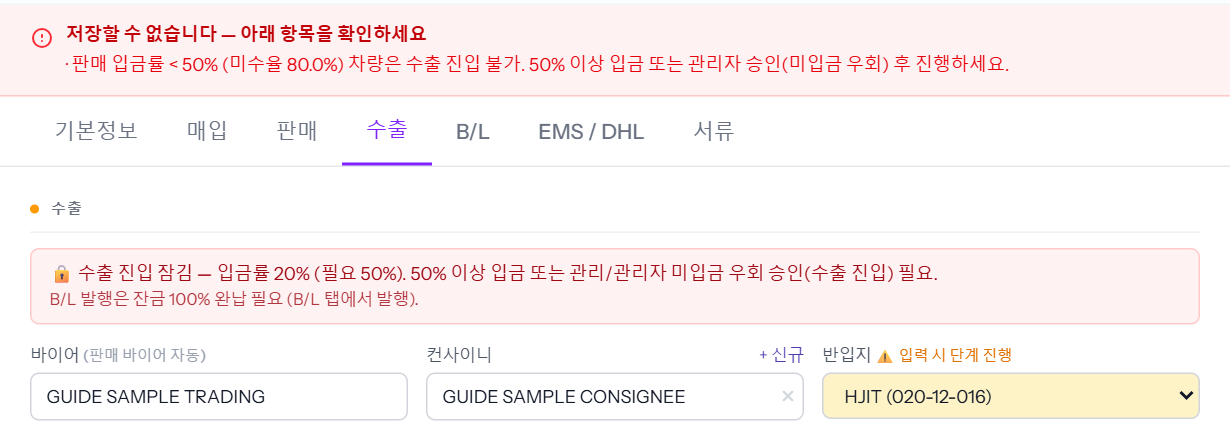
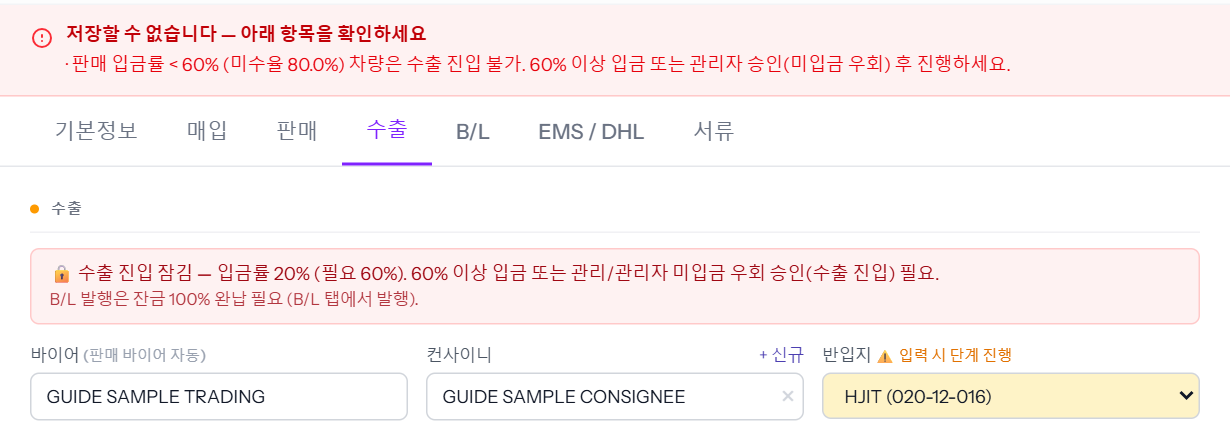
feat(guides): 씬 본문의 촬영 출처 줄 제거(12장) · 입금률 게이트 60% 다시 찍음 · 바이어 정산현황 수수료 단계
- jin «출처 줄은 없는 게 낫다 — 굳이 보일 필요 없다»: 「○○ 로컬 화면에서 ○○ 계정으로 … 찍었습니다」 문장을 12장 전부에서 삭제
  (촬영 출처는 커밋 메시지에만). 「로컬」·「찍었습니다」 언급 3곳도 정리.
- 입금률 게이트: 로컬 50% 로 찍혀 운영과 달랐다 → 로컬 기준 60% 로 다시 촬영. 회사별 기준 문장(11-14 운영 실측
  heymanerp·ssancarerp 60% · karabaerp 50%, B/L 100%).
- 바이어 정산현황 ④ 「수수료로 털기」(USD 25 중계은행 수수료, 남은 현금 1,000 → 975) 추가.

Changed region(s): [[0.1545, 0.1209, 0.8341, 0.1814], [0.278, 0.6047, 0.7724, 0.6651]]

diff --git a/resources/guides/buyer-account/index.html b/resources/guides/buyer-account/index.html
@@ -1,7 +1,6 @@
 <p style="margin:0 0 14px;color:#4b5563;line-height:1.65">
     바이어가 보낸 돈(현금)을 먼저 바이어 앞으로 적어 두고, 차량별 판매 잔금을 확정할 때마다 그 현금에서 빠져나가게 하는 방식입니다(바이어 현금 원장). 「바이어 정산현황」에서 그 현금이 어느 차에 얼마 쓰였고, 아직 받을 돈이 얼마 남았는지 한 화면에 봅니다. 재무가 합니다.
     <br><strong>회사마다 다릅니다</strong> — 2026-11-14 운영 실측: <strong>heymanerp · karabaerp 는 사용</strong>, <strong>ssancarerp 는 미사용</strong>. 쓰지 않는 회사에는 바이어 「현금」 탭과 「바이어 정산현황」 메뉴가 아예 없고, 판매 잔금은 현금 기재 없이 바로 확정됩니다.
-    <br>2026-11-14 로컬 화면(현금 원장 사용)에서 「재무」 계정으로 예시 바이어 <strong>GUIDE SAMPLE TRADING</strong> · 예시 차량 <strong>00가1131</strong>을 실제로 저장하며 찍었습니다. 금액은 가이드용 예시입니다.
 </p>
 
 <h2 class="gd-sec">① 바이어가 보낸 돈을 적습니다 — 바이어 「현금」 탭</h2>
@@ -38,12 +37,23 @@
     <img src="06.png" alt="묶음별 남은 금액(컨테이너번호) — 미지정 3대 21,300 USD / 미수 차량 — 11가1001 10,800, 00가1141 8,000, 00가1131 2,500">
 </div>
 
+<h2 class="gd-sec">④ 송금 수수료로 덜 들어온 돈 — 「수수료로 털기」</h2>
+
+<div class="gd-step">
+    <div class="gd-n">4단계</div>
+    <h3>바이어 「현금」 탭 → [＋ 수수료] → 수수료일 · 통화 · 수수료(외화) · 사유 → [수수료 털기]</h3>
+    <p>중계은행 수수료처럼 바이어가 보낸 금액보다 통장에 덜 들어왔는데 어느 차에도 붙일 수 없는 수수료는 여기서 텁니다. 남은 현금에서 오래된 입금부터 빠지고, 「지금 털 수 있는 최대」(남은 현금)를 넘으면 안 됩니다.</p>
+    <img src="07.png" alt="수수료로 털기 — 수수료일 2026-11-14, USD, 수수료 25, 사유 중계은행 수수료, 지금 털 수 있는 최대 1,000.00 USD, 수수료 털기 버튼">
+    <p>「수수료를 처리했습니다.」가 뜨고, 그 입금의 남은 금액이 줄며(1,000 → 975) 「쓴 내역」에 「원장 수수료 25.00」이, 아래 「수수료 내역」에 그 줄이 남습니다.</p>
+    <img src="08.png" alt="입금 목록 — 2026-11-14 3,000 USD 남은 975.00, 쓴 내역 00가1131 2,000 · 원장 수수료 25.00 / 수수료 내역 — 2026-11-14 -25.00 USD 중계은행 수수료">
+    <p style="color:#6b7280">※ 수수료가 특정 차 한 대의 송금에 붙은 것이면 여기 말고 그 차 판매 탭의 「송금 수수료」 칸에 적습니다 — 그러면 이 현금도 저절로 줄어듭니다. 두 곳에 다 적으면 두 번 빠집니다.</p>
+</div>
+
 <div class="gd-check">
     <h3>알아 둘 것</h3>
     <ul>
         <li>이 화면의 「바이어 정산현황」은 바이어 돈의 흐름입니다. 담당자에게 주는 「정산」(정산 처리 · 월정산)과는 다른 것입니다.</li>
         <li>현금 기재 · 삭제는 재무 확정 권한(재무 · 관리 이상)이 합니다. 이미 차에 쓴 입금을 지우면 그 잔금을 다른 남은 현금으로 다시 덮고, 남은 현금이 모자라면 삭제가 막힙니다.</li>
-        <li>바이어가 보낸 돈에서 은행 수수료가 빠졌으면 「현금」 탭의 [+ 수수료]로 적습니다. 차량 한 대에 붙은 수수료는 그 차 판매 탭의 「송금 수수료」 칸에 적습니다.</li>
         <li>남은 현금을 당장 쓸 차가 없으면 「남은 현금 → 적립금」에서 적립금으로 옮길 수 있습니다 — 씬 「적립금 적립과 사용」.</li>
         <li>사용 내역 표는 보여주기만 합니다. 잘못 쓰인 잔금은 채권관리(또는 판매 탭)에서 지우면 현금으로 돌아옵니다.</li>
     </ul>

diff --git a/resources/guides/unpaid-gate-override/index.html b/resources/guides/unpaid-gate-override/index.html
@@ -1,6 +1,6 @@
 <p style="margin:0 0 14px;color:#4b5563;line-height:1.65">
     판매 대금을 충분히 받지 못한 차는 수출 탭의 반입지·수출신고서를 저장할 수 없습니다(입금률 게이트). 그래도 먼저 진행해야 하면 <strong>관리 이상이 「미입금 우회 승인」을 사유와 함께 남기고</strong>, 그 뒤에 수출통관이 다시 저장합니다.
-    <br>2026-11-14 로컬 화면에서 「수출통관」·「관리」 계정으로 예시 차량 <strong>00가1141</strong>(USD 판매 10,000 · 2,000 받음 · 입금률 20%)을 실제로 저장하며 찍었습니다. 로컬의 진입 기준은 50% — 운영은 회사·바이어마다 기준이 다를 수 있습니다.
+    <br><strong>필요한 입금률은 회사마다 다릅니다</strong> — 2026-11-14 운영 실측: heymanerp · ssancarerp 60% · karabaerp 50% (B/L 은 세 곳 모두 100%). 바이어별로 따로 정해 둔 기준이 있으면 그것을 따릅니다. 그림은 60% 회사 화면입니다.
 </p>
 
 <h2 class="gd-sec">① 막힌 화면 — 수출통관</h2>
@@ -8,8 +8,8 @@
 <div class="gd-step">
     <div class="gd-n">1단계</div>
     <h3>수출 탭 위에 빨간 「수출 진입 잠김」이 보입니다</h3>
-    <p>「입금률 20% (필요 50%)」처럼 지금 입금률과 필요한 입금률이 나옵니다. 이 상태에서 반입지를 고르고 [수정 저장]을 누르면 저장되지 않고 이유가 뜹니다.</p>
-    <img src="01.png" alt="저장할 수 없습니다 — 판매 입금률 50% 미만(미수율 80.0%) 차량은 수출 진입 불가. 수출 탭 위 빨간 칸 — 수출 진입 잠김, 입금률 20% (필요 50%). 반입지 HJIT 선택됨">
+    <p>「입금률 20% (필요 60%)」처럼 지금 입금률과 필요한 입금률이 나옵니다. 이 상태에서 반입지를 고르고 [수정 저장]을 누르면 저장되지 않고 이유가 뜹니다.</p>
+    <img src="01.png" alt="저장할 수 없습니다 — 판매 입금률 60% 미만(미수율 80.0%) 차량은 수출 진입 불가. 수출 탭 위 빨간 칸 — 수출 진입 잠김, 입금률 20% (필요 60%). 반입지 HJIT 선택됨">
     <p>먼저 바이어에게 대금을 더 받는 것이 원칙입니다 — 씬 「채권관리」. 받기 전에 꼭 반입해야 하면 관리에게 우회 승인을 요청합니다.</p>
 </div>
 
@@ -23,7 +23,7 @@
         <li><strong>단계</strong> — 「수출 진입 (입금 N%)」: 반입지·수출신고서·선적·통관을 열어 줍니다. 「B/L 발행 (입금 100%)」은 B/L 문서를 열어 주는 별도 승인입니다.</li>
         <li><strong>사유</strong> — 20자 이상. 언제 받기로 했는지·누가 확인했는지를 적습니다.</li>
     </ul>
-    <img src="02.png" alt="미입금 우회 승인 — 미입금 잔존 11,200,000원, 단계 수출 진입(입금 50%), 사유 바이어 잔금 11/20 송금 예정 확인(메일). 선박 일정상 반입 먼저 진행.">
+    <img src="02.png" alt="미입금 우회 승인 — 미입금 잔존 11,200,000원, 단계 수출 진입(입금 60%), 사유 바이어 잔금 11/20 송금 예정 확인(메일). 선박 일정상 반입 먼저 진행.">
     <p>[승인 기록]을 누르면 「미입금 우회 승인 완료 — 해당 단계 진입 가능」이 뜨고 칸 머리에 「승인 1」, 아래에 「기존 승인 1건: 수출 진입」이 붙습니다.</p>
     <img src="03.png" alt="승인 1 — 미입금 잔존 11,200,000원 · 기존 승인 1건: 수출 진입">
 </div>

diff --git a/resources/guides/deregistration-notice/index.html b/resources/guides/deregistration-notice/index.html
@@ -1,6 +1,5 @@
 <p style="margin:0 0 14px;color:#4b5563;line-height:1.65">
     매입한 차를 말소하고, 말소등록증을 올린 뒤 차를 판 국내 딜러에게 카카오 알림톡으로 말소등록증 링크를 보내는 단계입니다. 매입 탭 아래쪽에서 합니다. 세금계산서 발행 요청도 같은 칸의 번호로 보냅니다.
-    <br>2026-11-14 로컬 화면에서 「수출통관」 계정으로 예시 차량 <strong>00가1131</strong>을 실제로 저장하며 찍었습니다. 말소증 파일·등록번호·딜러 번호는 가이드용 가짜 값이고, 알림톡 [발송] 버튼은 누르지 않았습니다(실제로 나가는 버튼입니다).
 </p>
 
 <h2 class="gd-sec">① 말소 기록과 말소증 올리기</h2>
@@ -45,7 +44,7 @@
 <div class="gd-step">
     <div class="gd-n">3단계</div>
     <h3>같은 칸의 [세금계산서 발행 요청]</h3>
-    <p>회사에서 이 알림톡이 승인돼 켜져 있으면 [알림톡 발송] 옆에 버튼이 하나 더 보입니다(로컬 화면엔 없어서 사진은 없습니다). 누르면 확인 창이 뜨고, 딜러에게 사업자등록증 링크(7일)와 함께 아래 알림톡이 갑니다. 재무 · 수출통관 · 관리 이상이 보낼 수 있습니다.</p>
+    <p>회사에서 이 알림톡이 승인돼 켜져 있으면 [알림톡 발송] 옆에 버튼이 하나 더 보입니다(사진은 없습니다). 누르면 확인 창이 뜨고, 딜러에게 사업자등록증 링크(7일)와 함께 아래 알림톡이 갑니다. 재무 · 수출통관 · 관리 이상이 보낼 수 있습니다.</p>
     <div class="gd-bubble">[세금계산서 발행 요청] 00가1131
 
 차량 매입 대금에 대한 세금계산서 발행을 요청드립니다.

diff --git a/resources/guides/vehicle-register/index.html b/resources/guides/vehicle-register/index.html
@@ -1,6 +1,5 @@
 <p style="margin:0 0 14px;color:#4b5563;line-height:1.65">
     새 차를 ERP에 올리고 매입 내용을 채우는 첫 단계입니다. 차량번호·영업담당자·바이어만 있으면 먼저 등록할 수 있고, 차량 정보(NICE 조회)와 매입 금액은 등록한 뒤에 채워도 됩니다.
-    <br>2026-11-13 로컬 화면에서 「관리」 계정으로 예시 차량 <strong>00가1113</strong>(현대 쏘나타 2020)을 실제로 등록하며 찍었습니다. 이 차는 다음 씬(매입 지급 → 판매 등록 → …)에서 이어서 씁니다.
 </p>
 
 <h2 class="gd-sec">① 차량 등록</h2>
@@ -90,7 +89,7 @@
     <h3>「비용」 — 말소비는 미리 들어 있습니다</h3>
     <p>말소비·면허비·탁송비·캐리비·쇼링비·보험료·이전비·주차료·기타비1·기타비2 칸입니다. 새 차에는 말소비가 미리 들어 있고, 금액이 다르면 고칩니다. 나머지는 실제 금액이 나오면 그때 넣습니다.</p>
     <img src="09.png" alt="말소비 24,000이 미리 들어 있는 비용 칸">
-    <p style="color:#6b7280">※ 미리 들어가는 비용은 회사 설정에 따라 다릅니다. 그림은 2026-11-13 로컬(공통 설정) 실측으로 말소비 24,000원입니다.</p>
+    <p style="color:#6b7280">※ 미리 들어가는 비용은 회사 설정에 따라 다릅니다. 그림은 기본 설정 화면이라 말소비 24,000원입니다.</p>
 </div>
 
 <div class="gd-step">

diff --git a/resources/guides/sale-payment/index.html b/resources/guides/sale-payment/index.html
@@ -1,6 +1,5 @@
 <p style="margin:0 0 14px;color:#4b5563;line-height:1.65">
     바이어가 보낸 돈이 들어오면 ERP에 기록하는 단계입니다. 재무가 합니다. 다 받으면 미입금이 0이 되고 진행상태가 「판매완료」로 바뀝니다.
-    <br>2026-11-13 로컬 화면에서 「재무」 계정으로 앞 씬의 예시 차량 <strong>00가1113</strong>(GUIDE SAMPLE TRADING · 받을 돈 USD 10,000)에 바이어가 10,000달러를 한 번에 보낸 것으로 기록하며 찍었습니다.
 </p>
 
 <div class="gd-step" style="background:#f8fafc">
@@ -9,7 +8,7 @@
         <li><strong>heymanerp · karabaerp</strong> — 「바이어 현금」을 씁니다. 바이어가 보낸 돈을 <strong>바이어 화면에 먼저</strong> 적고(①), 그다음 차량에 잔금을 넣습니다(②). 차량 잔금은 바이어 현금이 남은 만큼만 들어갑니다.</li>
         <li><strong>ssancarerp</strong> — 바이어 현금을 쓰지 않습니다. ①을 건너뛰고 ②부터 합니다.</li>
     </ul>
-    <p style="color:#6b7280">※ 2026-11-13 3사 설정 확인. 이 씬의 그림은 바이어 현금을 쓰는 설정으로 찍었습니다.</p>
+    <p style="color:#6b7280">※ 2026-11-13 3사 설정 확인. 이 씬의 그림은 바이어 현금 원장을 쓰는 회사의 화면입니다.</p>
 </div>
 
 <h2 class="gd-sec">① 바이어가 보낸 돈 적기 (heymanerp · karabaerp)</h2>

diff --git a/resources/guides/purchase-payment/index.html b/resources/guides/purchase-payment/index.html
@@ -1,6 +1,5 @@
 <p style="margin:0 0 14px;color:#4b5563;line-height:1.65">
     딜러에게 매입 대금을 보낸 뒤 ERP에 기록하고, 딜러에게 「입금했습니다」 알림톡을 보내는 단계입니다. 재무(또는 관리)가 합니다.
-    <br>2026-11-13 로컬 화면에서 「재무」 계정으로 앞 씬의 예시 차량 <strong>00가1113</strong>(매입가 10,000,000 + 매도비 300,000 = 줄 돈 10,300,000원)에 실제로 기록하며 찍었습니다.
 </p>
 
 <h2 class="gd-sec">① 보낸 돈 기록하기</h2>
@@ -66,7 +65,7 @@
     </ul>
     <img src="06.png" style="width:440px" alt="딜러에게 입금 완료 알림톡 보내기 창 — 이체확인증 붙여넣기, 사진 없이 보내기, 이체확인증과 함께 보내기">
     <p>보내면 「입금완료 알림톡을 발송했습니다. (9,000,000원)」이 뜹니다.</p>
-    <p style="color:#6b7280">※ 실제 발송은 하지 않고 창까지만 찍었습니다. 3사 모두 이체확인증 버튼 알림톡이 켜져 있습니다(2026-11-13 확인).</p>
+    <p style="color:#6b7280">※ 3사 모두 이체확인증 버튼 알림톡이 켜져 있습니다(2026-11-13 확인).</p>
 </div>
 
 <div class="gd-step">

diff --git a/resources/guides/secondary-settlement/index.html b/resources/guides/secondary-settlement/index.html
@@ -1,6 +1,5 @@
 <p style="margin:0 0 14px;color:#4b5563;line-height:1.65">
     1차 정산을 지급한 뒤, 업체 명세서로 청구된 실제 비용(탁송비 등)을 넣고 정산을 마무리하는 단계입니다. 재무가 합니다. 보통은 <strong>명세서를 「명세서 기입」으로 한 번에 올리고 → 「이 달 2차 일괄 마감」</strong>으로 끝냅니다. 비용이 들어간 정산은 「2차 정산」 칸이 <strong>「비용 대기」 → 「2차 가능」</strong>이 되고, 마감하면 <strong>「최종 마무리」</strong>가 되며 회계 칸이 잠깁니다.
-    <br>2026-11-14 로컬 화면에서 「재무」 계정으로 예시 차량 <strong>00가1121 · 00가1122</strong>(판매완료 · 정산 지급완료 · 프리랜서 50%)를 실제로 저장하며 찍었습니다. 명세서 금액은 가이드용 예시입니다.
 </p>
 
 <h2 class="gd-sec">① 지급이 끝난 정산 — 「비용 대기」</h2>

diff --git a/resources/guides/receivables/index.html b/resources/guides/receivables/index.html
@@ -1,6 +1,5 @@
 <p style="margin:0 0 14px;color:#4b5563;line-height:1.65">
     판매 대금 중 아직 못 받은 돈(미수)을 차마다 보고, 받은 돈을 「회수 이력」으로 남기는 화면입니다. 재무가 합니다. 받은 방법에 따라 <strong>바로 미수가 줄어드는 것</strong>(현금·상계·기타 등)과 <strong>재무가 확정해야 줄어드는 것</strong>(입금)이 나뉩니다.
-    <br>2026-11-14 로컬 화면에서 「재무」 계정으로 예시 차량 <strong>00가1131</strong>(USD 판매 10,000 · 계약금 3,000 받음 · 미수 7,000)을 실제로 저장하며 찍었습니다. 금액·메모는 가이드용 예시입니다.
 </p>
 
 <h2 class="gd-sec">① 목록 — 어디에 얼마가 남았나</h2>

diff --git a/resources/guides/bl-issue/index.html b/resources/guides/bl-issue/index.html
@@ -1,6 +1,5 @@
 <p style="margin:0 0 14px;color:#4b5563;line-height:1.65">
     배가 떠난 차에 B/L(선하증권)을 올려 거래를 끝내는 단계입니다. 수출통관이 합니다. 체크빌(초안)을 먼저 받아 확인하고, 최종 B/L이 나오면 번호·발행일·방식과 함께 B/L 문서를 올립니다. B/L 문서를 올리고 저장하는 순간 진행상태가 <strong>「거래완료」</strong>가 됩니다.
-    <br>2026-11-14 로컬 화면에서 「수출통관」 계정으로 앞 씬의 예시 차량 <strong>00가1113</strong>(통관완료 · 완납)을 실제로 저장하며 찍었습니다. B/L 번호와 파일은 가이드용 가짜 값입니다.
 </p>
 
 <h2 class="gd-sec">① B/L을 올릴 수 있는 차인지</h2>

diff --git a/resources/guides/monthly-payout/index.html b/resources/guides/monthly-payout/index.html
@@ -1,6 +1,5 @@
 <p style="margin:0 0 14px;color:#4b5563;line-height:1.65">
     거래가 끝난 차의 담당자 정산을 한 달치 묶어 결재를 받고 지급까지 마치는 단계입니다. 재무가 정산을 확정하고, 업무관리자가 월정산을 올리고, 결재선(부장 → 상무 → 대표)이 승인한 뒤, 올린 사람이 최종 확정합니다.
-    <br>2026-11-13 로컬 화면에서 앞 씬의 예시 차량 <strong>00가1113</strong>(담당 김영업 · 사내직원 건당 200,000원)으로 실제로 확정 → 제출 → 승인 → 최종 확정까지 찍었습니다. 결재자·제출자는 가이드용 예시 계정입니다.
 </p>
 
 <h2 class="gd-sec">① 재무 — 정산 확정</h2>

diff --git a/resources/guides/export-tab/index.html b/resources/guides/export-tab/index.html
@@ -1,6 +1,5 @@
 <p style="margin:0 0 14px;color:#4b5563;line-height:1.65">
     판매된 차를 배에 실어 보내는 동안 「수출」 탭을 위에서 아래로 채우는 단계입니다. 수출통관이 합니다. 칸을 채우고 저장할 때마다 진행상태가 선적중 → 선적완료 → 통관중 → 통관완료로 넘어갑니다.
-    <br>2026-11-13 로컬 화면에서 「수출통관」 계정으로 앞 씬의 예시 차량 <strong>00가1113</strong>(판매완료 · 완납)을 한 단계씩 저장하며 찍었습니다. 컨사이니·선박명·신고번호·서류는 모두 가이드용 가짜 값입니다.
 </p>
 
 <h2 class="gd-sec">⓪ 먼저 말소가 끝나 있어야 합니다</h2>

diff --git a/resources/guides/sale-register/index.html b/resources/guides/sale-register/index.html
@@ -1,6 +1,5 @@
 <p style="margin:0 0 14px;color:#4b5563;line-height:1.65">
     차를 살 바이어가 정해지면 판매 탭에 바이어·통화·환율·판매가를 넣고, 서류 탭에서 인보이스를 뽑는 단계입니다. 관리가 합니다.
-    <br>2026-11-13 로컬 화면에서 「관리」 계정으로 앞 씬의 예시 차량 <strong>00가1113</strong>(바이어 미정 · 매입완료)을 가이드용 가짜 바이어 <strong>GUIDE SAMPLE TRADING</strong>(요르단)에게 9,000달러 + 운임비 1,000달러로 판매 등록하며 찍었습니다.
 </p>
 
 <h2 class="gd-sec">① 바이어 정하기</h2>
